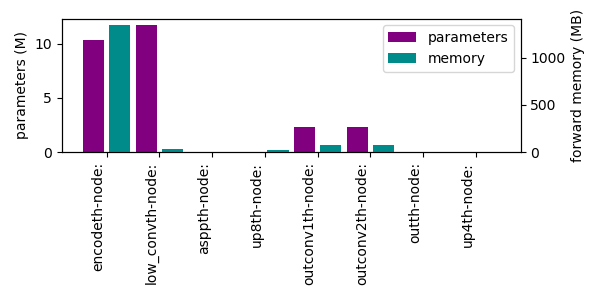
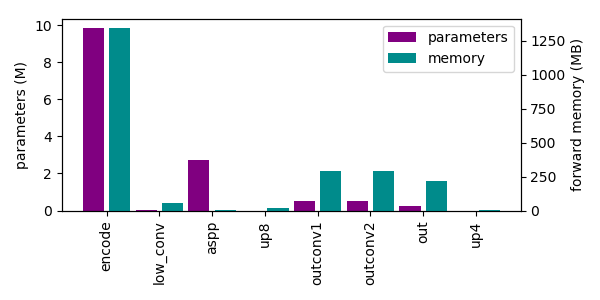
debug plot memo

Changed region(s): [[0.0, 0.03, 0.99, 0.96], [0.63, 0.06, 0.87, 0.09]]

diff --git a/utils/plot_memo.py b/utils/plot_memo.py
@@ -1,85 +1,54 @@
 import matplotlib.pyplot as plt
-import numpy as np
 from collections import OrderedDict
 memo_txt = 'log.txt'
-nodes = OrderedDict({'pre': {}, 'after': {}, 'memo_for': {}, 'max_memo': {
-}, 'back': {}, 'memo_back': {}, 'memo_for_new': {}})
-forward = []
-backward = []
-max = []
+nodes = OrderedDict({'pre': {}, 'after': {}, 'memo_for': {}, 'params': {}})
 txt = []
-f_memo = []
-f_max = []
 for line in open(memo_txt, 'r').readlines():
     txt.append(line)
 print(len(txt))
-params = []
+
+
 for i in range(len(txt)):
     if 'pre_forward' in txt[i]:
         _, name, node = txt[i].split(' ')
         _, max_memo, _, memo = txt[i+1].split(' ')
-        nodes['pre'][name +
-                     node] = {'max_memo': float(max_memo), 'memo': float(memo)}
-        # max.append(max_memo)
+        nodes['pre'][name] = {'max_memo': float(max_memo), 'memo': float(memo)}
     if 'after_forward' in txt[i]:
         _, name, node = txt[i].split(' ')
         _, max_memo, _, memo = txt[i+1].split(' ')
-        nodes['after'][name +
-                       node] = {'max_memo': float(max_memo), 'memo': float(memo)}
-        nodes['memo_for'][name+node] = nodes['after'][name +
-                                                      node]['memo']-nodes['pre'][name+node]['memo']
-        nodes['memo_for_new'][name+node] = nodes['after'][name +
-                                                          node]['max_memo']-nodes['pre'][name+node]['memo']
+        nodes['after'][name] = {'max_memo': float(
+            max_memo), 'memo': float(memo)}
+        nodes['memo_for'][name] = nodes['after'][name]['max_memo']-nodes['pre'][name]['memo']
 
-        nodes['max_memo'][name+node] = nodes['after'][name+node]['max_memo']
-        forward.append(nodes['after'][name+node]
-                       ['max_memo']-nodes['pre'][name+node]['memo'])
-        # forward_new.append(nodes['after'][name+node]['max_memo']-nodes['pre'][name+node]['memo'])
-        f_max.append(nodes['after'][name+node]['max_memo'])
-        f_memo.append(nodes['after'][name+node]['memo'])
-        max.append(max_memo)
-    if 'after_backward' in txt[i]:
-        _, name, node = txt[i].split(' ')
-        _, max_memo, _, memo = txt[i + 1].split(' ')
-        nodes['back'][name +
-                      node] = {'max_memo': float(max_memo), 'memo': float(memo)}
-        nodes['memo_back'][name + node] = nodes['after'][name +
-                                                         node]['memo'] - nodes['pre'][name + node]['memo']
-        nodes['max_memo'][name + node] = nodes['after'][name + node]['max_memo']
-        backward.append(nodes['back'][name+node]['memo'] -
-                        nodes['after'][name+node]['memo'])
-        max.append(max_memo)
-        # after_max.append(float(max_memo))
     if 'param:' in txt[i]:
-        params.append(float(txt[i].split(':')[1]))
-# forward DarkUnit
+        name = txt[i].split(' ')[0]
+        nodes['params'][name] = float(txt[i].split(':')[1])
+
 names = []
 values = []
-values_new = []
+params = []
 for k, v in nodes['memo_for'].items():
     names.append(k)
-    values.append(v)
-    values_new.append(nodes['memo_for_new'][k])
+    values.append(nodes['memo_for'][k])
+    params.append(nodes['params'][k])
 # main figure
 
 fig = plt.figure(figsize=(6, 3))
 ax1 = fig.add_subplot(111)
-l1 = ax1.bar(range(0, 2*len(names), 2), params, tick_label=None, color='purple')
-# l1=ax1.plot(range(0,len(names)),params,color='g')
+l1 = ax1.bar(range(0, 2*len(names), 2), params,
+             tick_label=None, color='purple')
+
 ax1.set_ylabel('parameters (M)')
 ticks = range(0, 2*len(names), 2)
 ticks = [x+0.5 for x in ticks]
 plt.xticks(ticks, names)
 plt.xticks(rotation=90)
 ax2 = ax1.twinx()
-# l2=ax2.plot(range(0,len(names)),values_new,color='b')
 
-l2 = plt.bar(range(1, 2*len(names), 2), values_new,
+l2 = plt.bar(range(1, 2*len(names), 2), values,
              tick_label=None, color='darkcyan')
 plt.xticks(rotation=90)
-# plt.xlabel('forward memory')
 plt.ylabel('forward memory (MB)')
 plt.legend(handles=[l1, l2], labels=['parameters', 'memory'])
 plt.tight_layout()
 plt.savefig('memory.png')
-# plt.show()

diff --git a/nas/RayNet.py b/nas/RayNet.py
@@ -3,7 +3,9 @@ import torch
 import torch.nn as nn
 import torch.nn.functional as F
 from inspect import isfunction
-from nas.Mix import  mixnet_xl
+from Mix import mixnet_xl
+
+
 def initialize_weights(*nnmodels):
     "initial with kaiming"
     for model in nnmodels:
@@ -63,17 +65,14 @@ class ASSP(nn.Module):
         x2 = self.aspp2(x)
         x3 = self.aspp3(x)
         x4 = self.aspp4(x)
-        x5 = F.interpolate(self.avg_pool(x),size=x.size()[2:],mode='bilinear',align_corners=True)
+        x5 = F.interpolate(self.avg_pool(x), size=x.size()[
+                           2:], mode='bilinear', align_corners=True)
 
         x = self.conv1(torch.cat((x1, x2, x3, x4, x5), dim=1))
         x = self.bn1(x)
         x = self.dropout(self.relu(x))
 
         return x
-
-
-
-
 
 
 class SepConv(nn.Module):
@@ -96,7 +95,6 @@ class SepConv(nn.Module):
 
     def forward(self, x):
         return self.ops(x)
-
 
 
 class ConvBlock(nn.Module):
@@ -180,9 +178,11 @@ class ConvBlock(nn.Module):
 
 class RayNet(nn.Module):
     "adopt from gao ray"
+
     def __init__(self, pretrained=True, num_classes=3):
         super(RayNet, self).__init__()
-        self.encode = mixnet_xl(pretrained=pretrained,num_classes=num_classes,head_conv=None)
+        self.encode = mixnet_xl(pretrained=pretrained,
+                                num_classes=num_classes, head_conv=None)
         self.aspp = ASSP(in_channels=320, output_stride=8)
         self.low_conv = SepConv(48, 256, 1, 1, 0)
         self.up8 = nn.Upsample(
@@ -194,7 +194,7 @@ class RayNet(nn.Module):
             scale_factor=4, mode='bilinear', align_corners=True)
 
     def forward(self, inputs):
-        _, middle_feature = self.encode.forward_features(inputs)
+        _, middle_feature = self.encode(inputs)
 
         low_feat = self.low_conv(middle_feature[0])
 
@@ -210,29 +210,28 @@ class RayNet(nn.Module):
         return out
 
 
-
 class RayNet_v0(nn.Module):
     "adopt from gao ray"
+
     def __init__(self, encode='mixnet_xl', pretrained=True, num_classes=3):
         super(RayNet_v0, self).__init__()
         self.encode = timm.create_model(
             encode, pretrained=pretrained, num_classes=num_classes)
         self.aspp = ASSP(in_channels=1536, output_stride=8)
-        self.low_conv =ConvBlock(48, 256, 1, 1, 0)
+        self.low_conv = ConvBlock(48, 256, 1, 1, 0)
         self.up8 = nn.Upsample(
             scale_factor=8, mode='bilinear', align_corners=True)
         self.outconv1 = ConvBlock(512, 512, 3, 1, 1)
-        self.outconv2 =ConvBlock(512, 512, 3, 1, 1)
-        self.out =ConvBlock(512, num_classes, 1, 1, 0)
+        self.outconv2 = ConvBlock(512, 512, 3, 1, 1)
+        self.out = ConvBlock(512, num_classes, 1, 1, 0)
         self.up4 = nn.Upsample(
             scale_factor=4, mode='bilinear', align_corners=True)
 
     def forward(self, inputs):
         _, middle_feature = self.encode(inputs)
 
-        low_feat = self.low_conv(middle_feature[0])
-
         aspp_out = self.aspp(middle_feature[1])
+        low_feat = self.low_conv(middle_feature[0])
         up_aspp = self.up8(aspp_out)
 
         cat = torch.cat([low_feat, up_aspp], dim=1)

diff --git a/nas/print_memo_macro.py b/nas/print_memo_macro.py
@@ -1,16 +1,15 @@
 import sys
-from RayNet import RayNet_v0
+from RayNet import RayNet
 import torch
 import os
 import torch.nn as nn
 import numpy as np
 
 
-
-
-os.environ['CUDA_VISIBLE_DEVICES'] = '1'
+os.environ['CUDA_VISIBLE_DEVICES'] = '6'
 f = open('log.txt', 'w')
 sys.stdout = f
+
 
 def get_hook_fn(i, device, phase):
     if 'pre_forward' in phase:
@@ -45,20 +44,21 @@ def count_parameters(model):
 
 device = torch.device('cuda')
 Criterion = nn.BCELoss().cuda()
-net = RayNet_v0()
+net = RayNet()
 net = net.cuda()
 
 # register("encode", net.encode)
 # register("aspp", net.aspp)
-# register("Raynet", net)
-for i,model in net.named_children():
-    register(i,model)
-    print('{} param:{}'.format(i,count_parameters(model)))
+# register("Raynet", net).
+for i, model in net.named_children():
+    register(i, model)
 
 inputs = torch.randn(2, 3, 384, 384).cuda()
 out = net(inputs)
-target = torch.randn([2,3,384,384]).cuda()
+target = torch.randn([2, 3, 384, 384]).cuda()
 loss = Criterion(out, target)
 loss.backward()
 
+for i, model in net.named_children():
+    print('{} param:{}'.format(i, count_parameters(model)))
 f.close()
